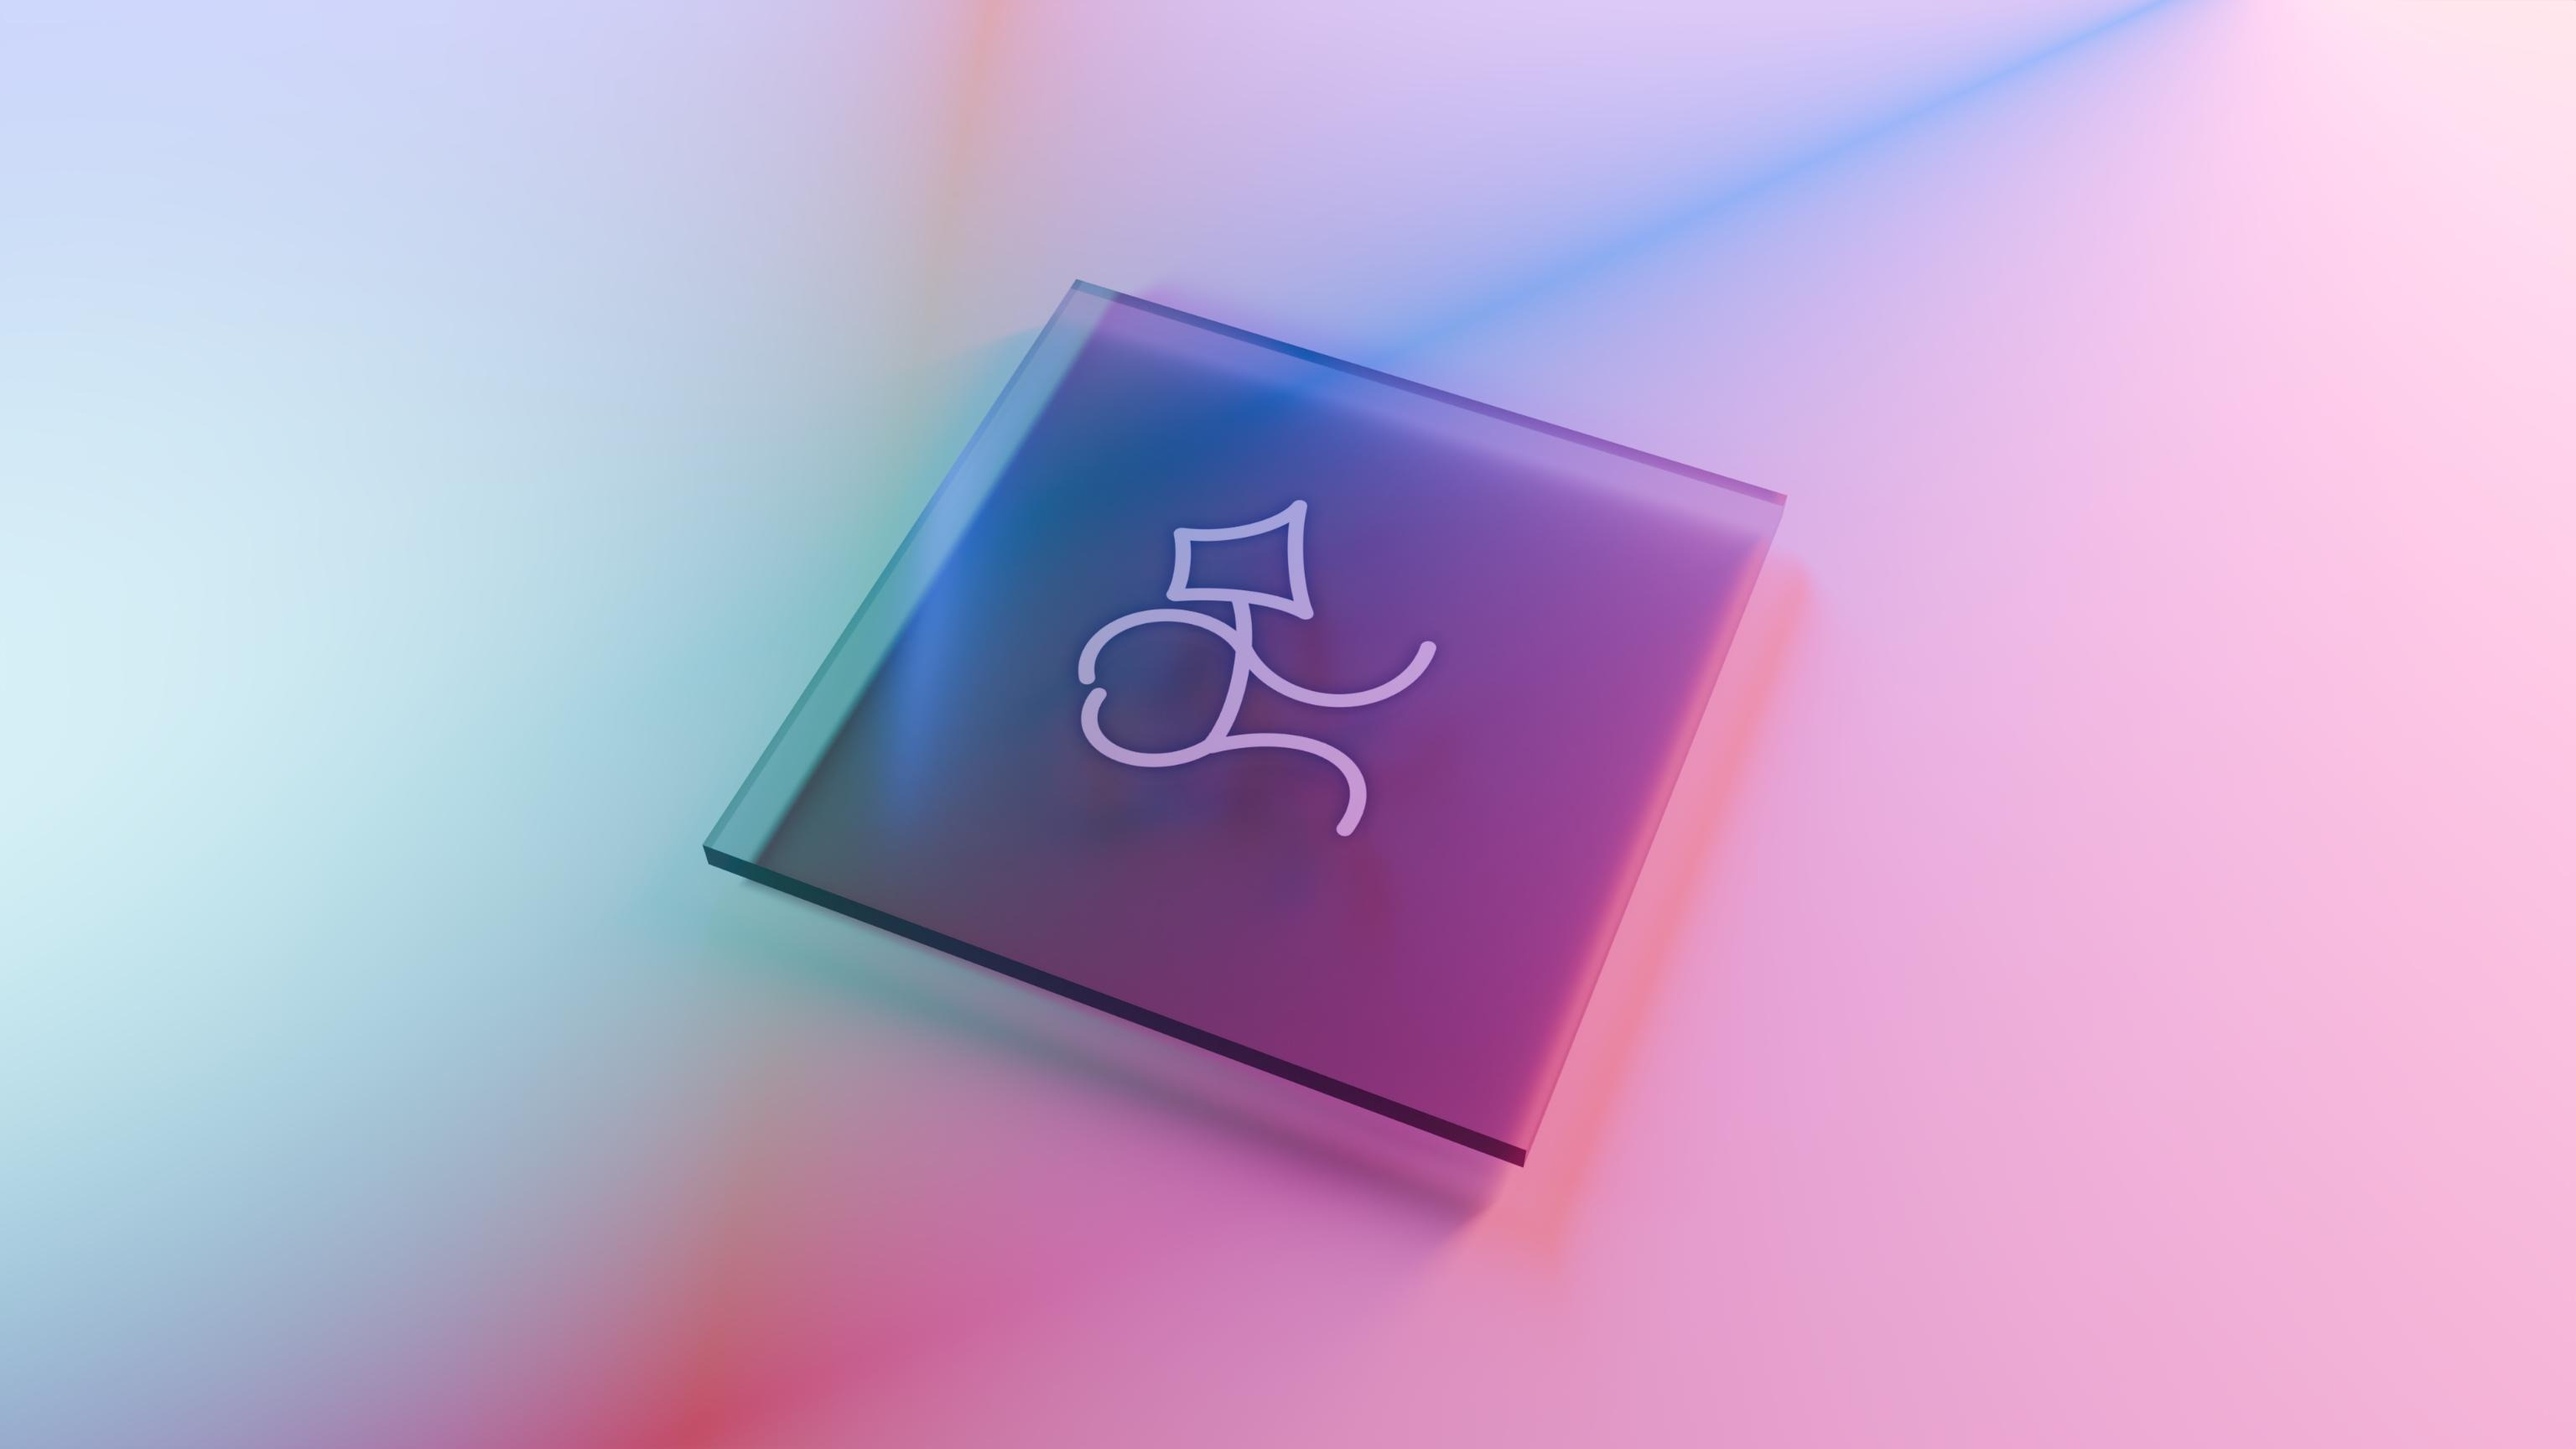
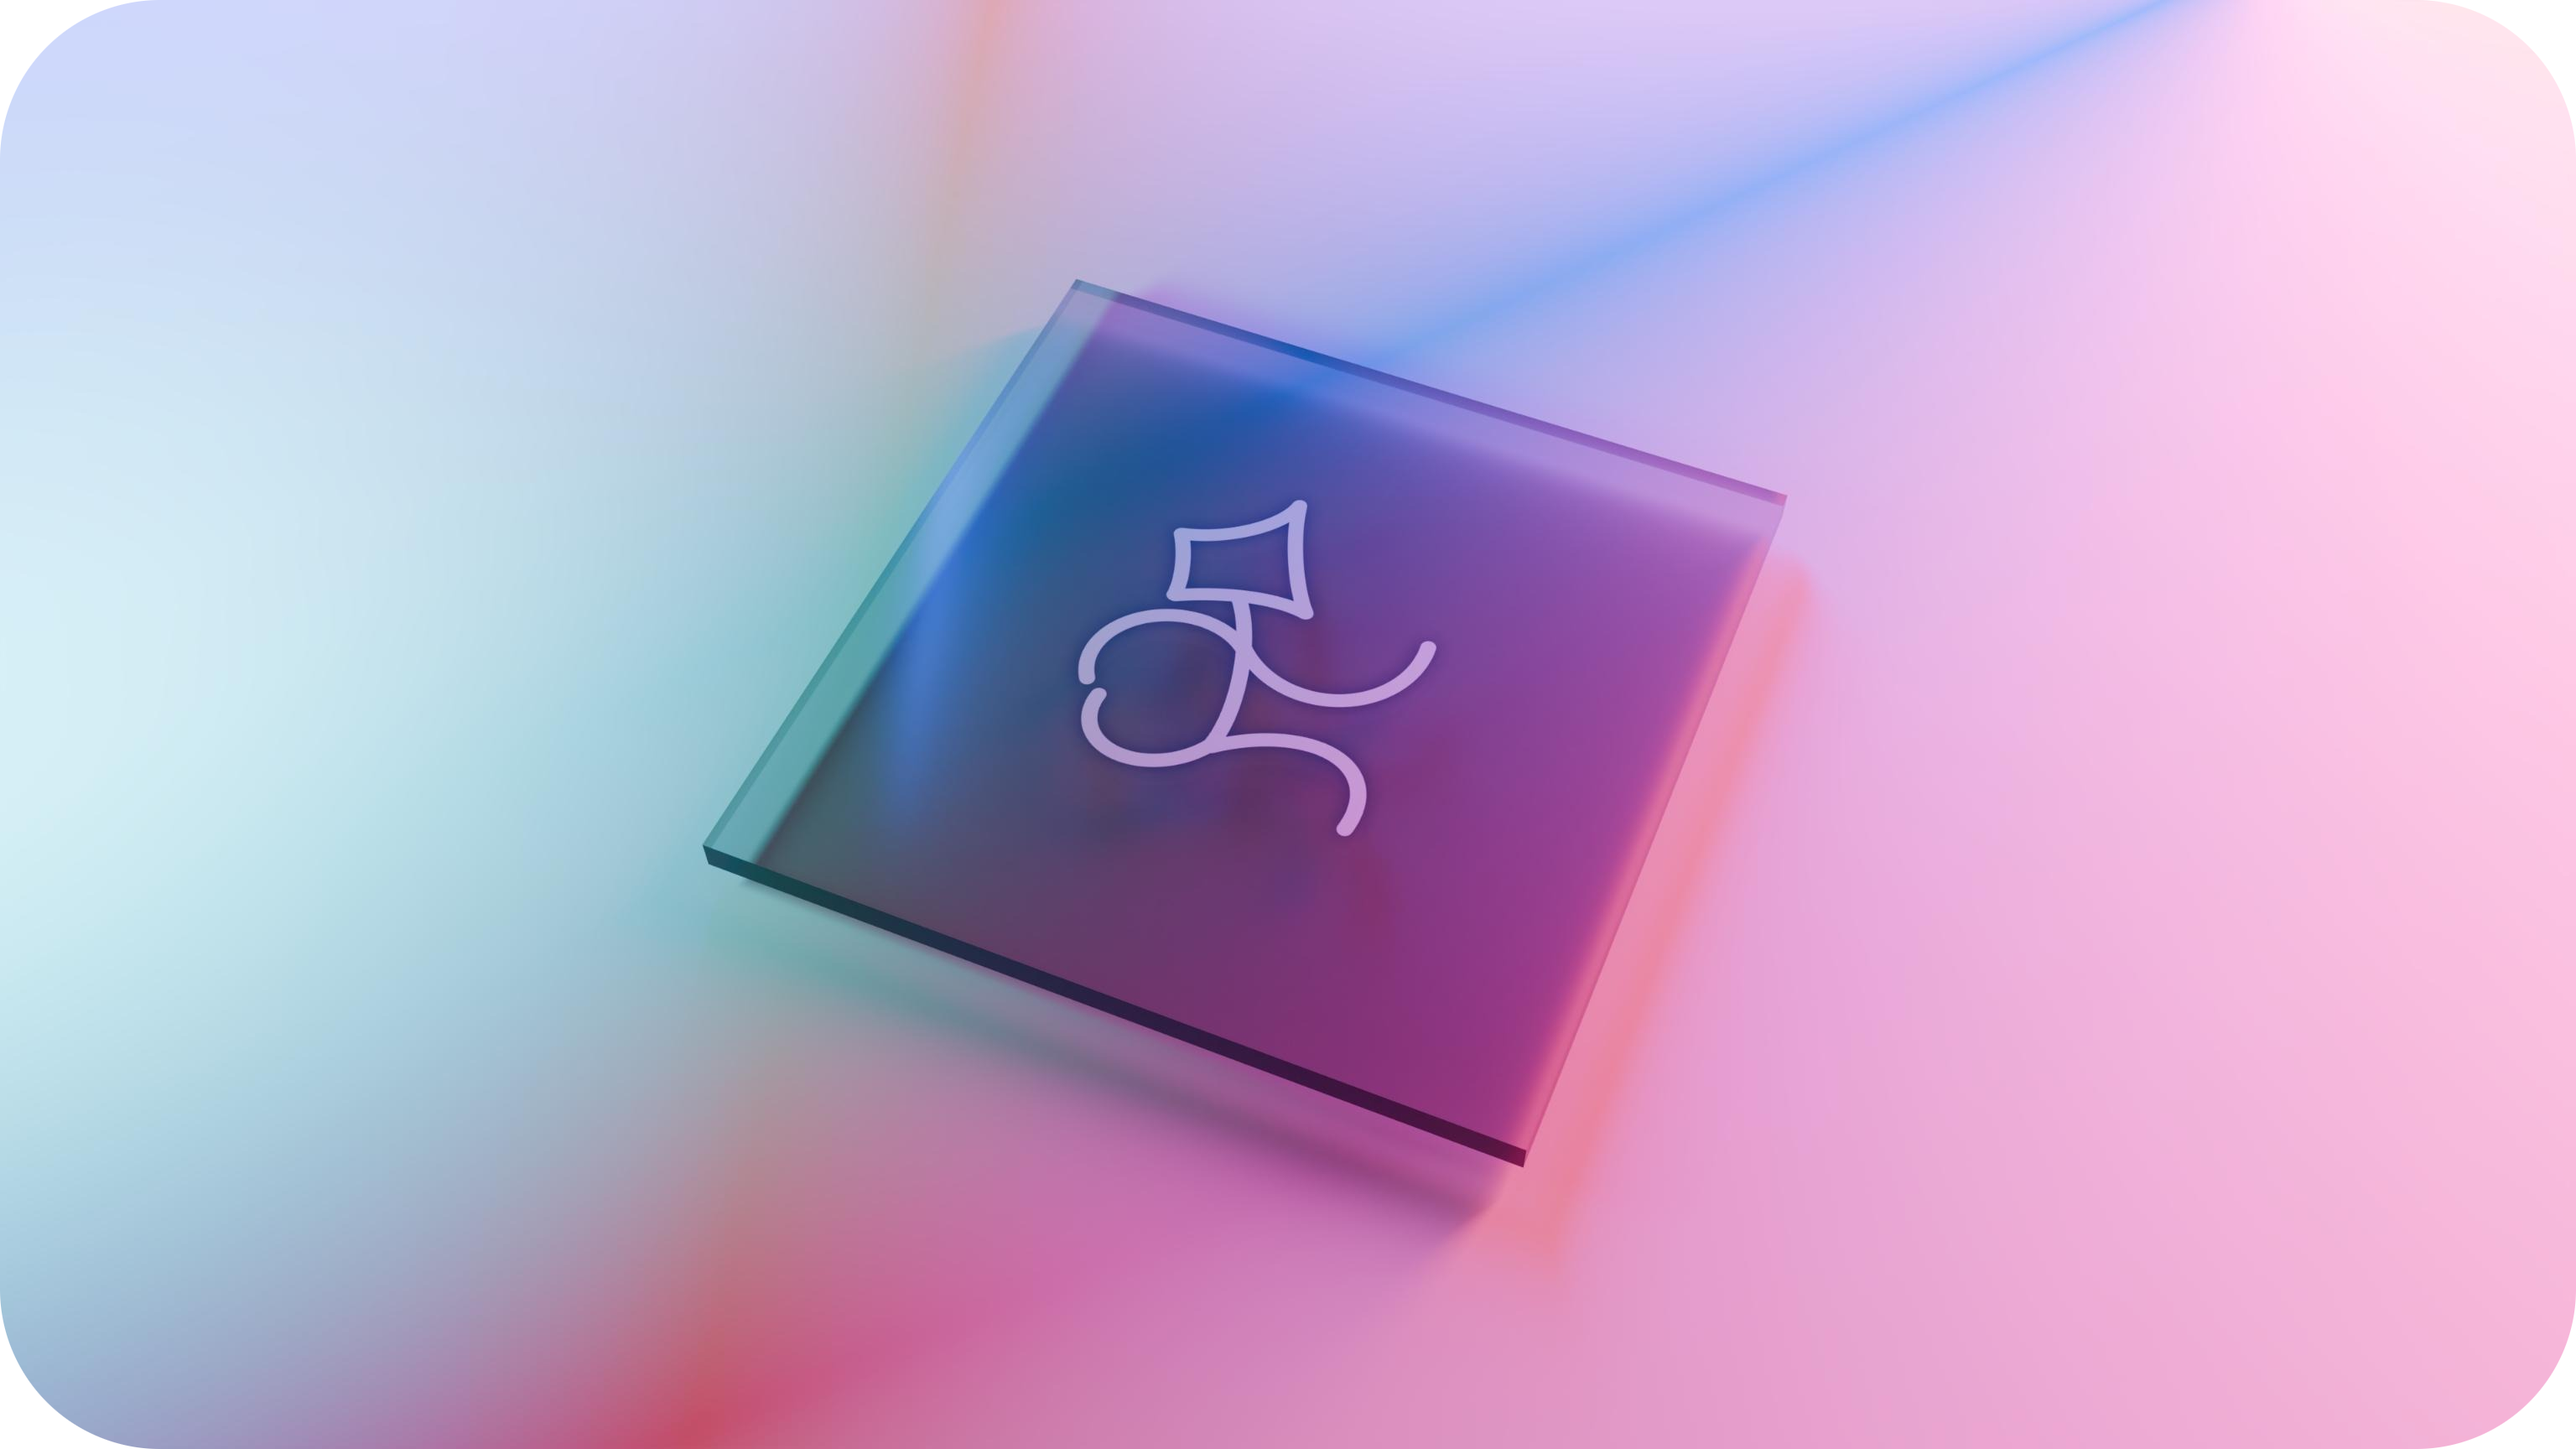
add CPU diagram, round corners of promo picture

diff --git a/README.md b/README.md
@@ -1,7 +1,7 @@
 <p align="center">
     <img 
         style="width: 75%;"
-        src="./docs/images/promo-picture.png" 
+        src="./docs/images/promo-picture.webp" 
         alt="An imagination of the CPU rendered in Blender">
     <h1 align="center">JoltCore Spark 16 (JC16)</h1>
 </p>
